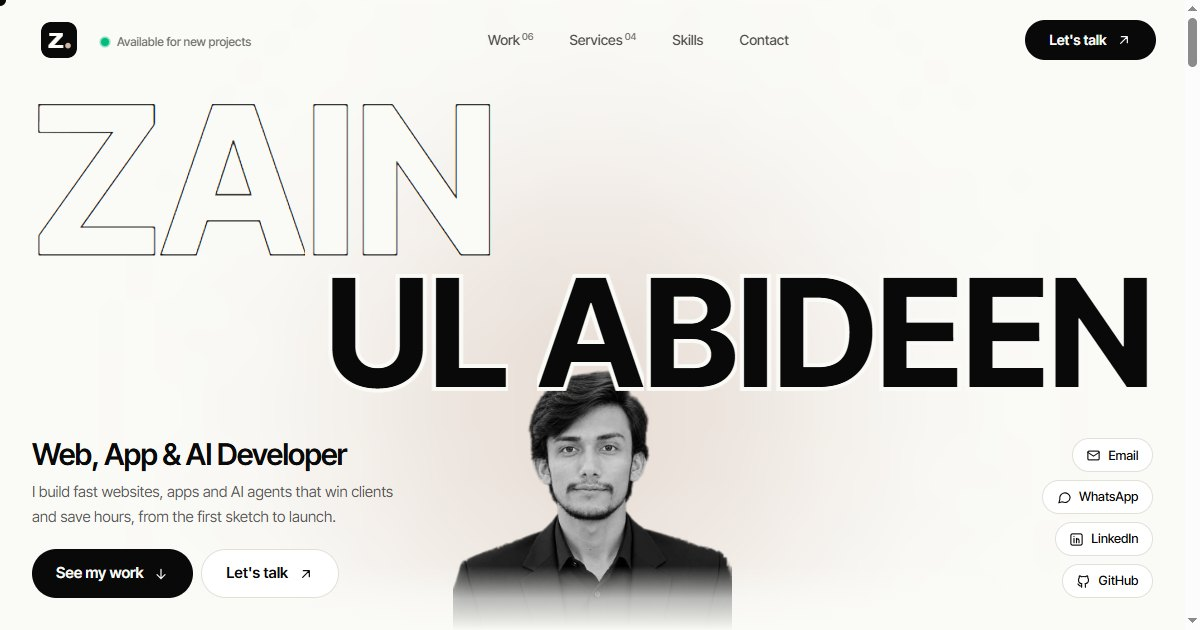
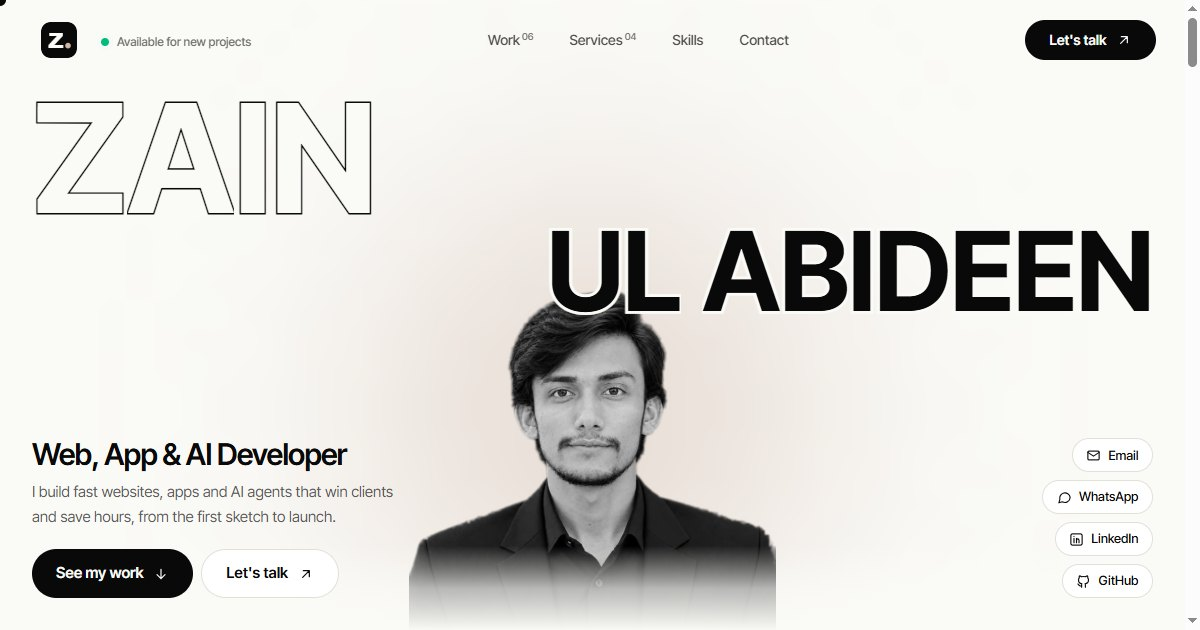
Hero name scales with screen height, so short laptop screens get a bigger photo

Changed region(s): [[0.0308, 0.1508, 0.9558, 0.9952], [0.37, 0.2714, 0.4008, 0.3016], [0.37, 0.1508, 0.4008, 0.181]]

diff --git a/src/components/Hero.tsx b/src/components/Hero.tsx
@@ -91,10 +91,10 @@ export default function Hero() {
 
       {/* The name sits in front of the portrait, so it can always be read in full */}
       <h1 className="pointer-events-none relative z-20 px-4 font-display font-bold uppercase leading-[0.82] tracking-[-0.055em] sm:px-8" aria-label={ME.name}>
-        <span data-name-a className="text-outline-ink block text-[clamp(4.5rem,23vw,9rem)] sm:text-[clamp(5rem,17vw,19rem)]" aria-hidden="true">
+        <span data-name-a className="text-outline-ink block text-[clamp(4.5rem,23vw,9rem)] sm:text-[clamp(4rem,min(17vw,24svh),19rem)]" aria-hidden="true">
           <Letters text={ME.first} />
         </span>
-        <span data-name-b className="text-halo block text-right text-[clamp(3rem,15.5vw,6rem)] sm:text-[clamp(4rem,12.5vw,14rem)]" aria-hidden="true">
+        <span data-name-b className="text-halo block text-right text-[clamp(3rem,15.5vw,6rem)] sm:text-[clamp(3rem,min(12.5vw,17.5svh),14rem)]" aria-hidden="true">
           <Letters text={ME.last} />
         </span>
       </h1>
@@ -102,7 +102,7 @@ export default function Hero() {
       {/* Portrait: greyscale, with a colour reveal under the pointer */}
       <div
         ref={photo}
-        className="pointer-events-none relative z-10 -mt-6 min-h-0 w-full flex-1 overflow-hidden lg:-mt-[2.5vw]"
+        className="pointer-events-none relative z-10 -mt-6 min-h-0 w-full flex-1 overflow-hidden lg:-mt-[5svh]"
         style={{ '--x': '50%', '--y': '40%', '--r': '0px' } as CSSProperties}
       >
         {/* The entrance animates this inner layer; the scroll drift moves the outer one, so they never fight. */}
